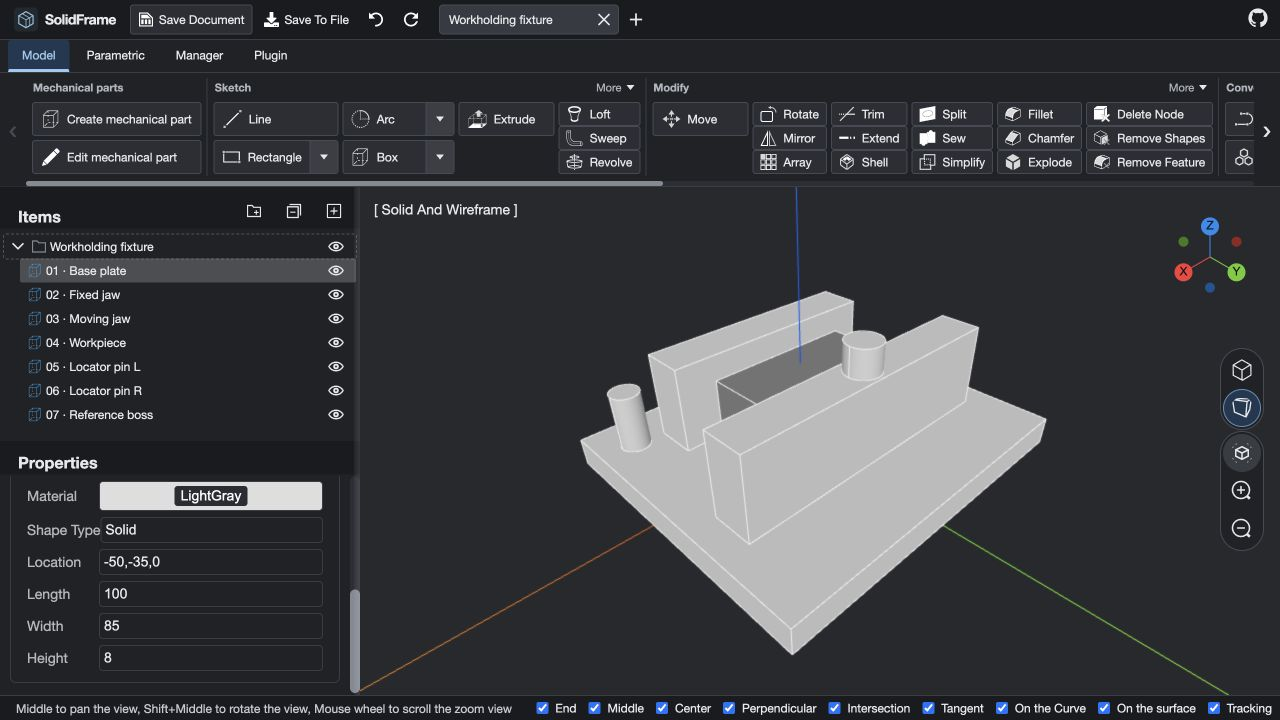
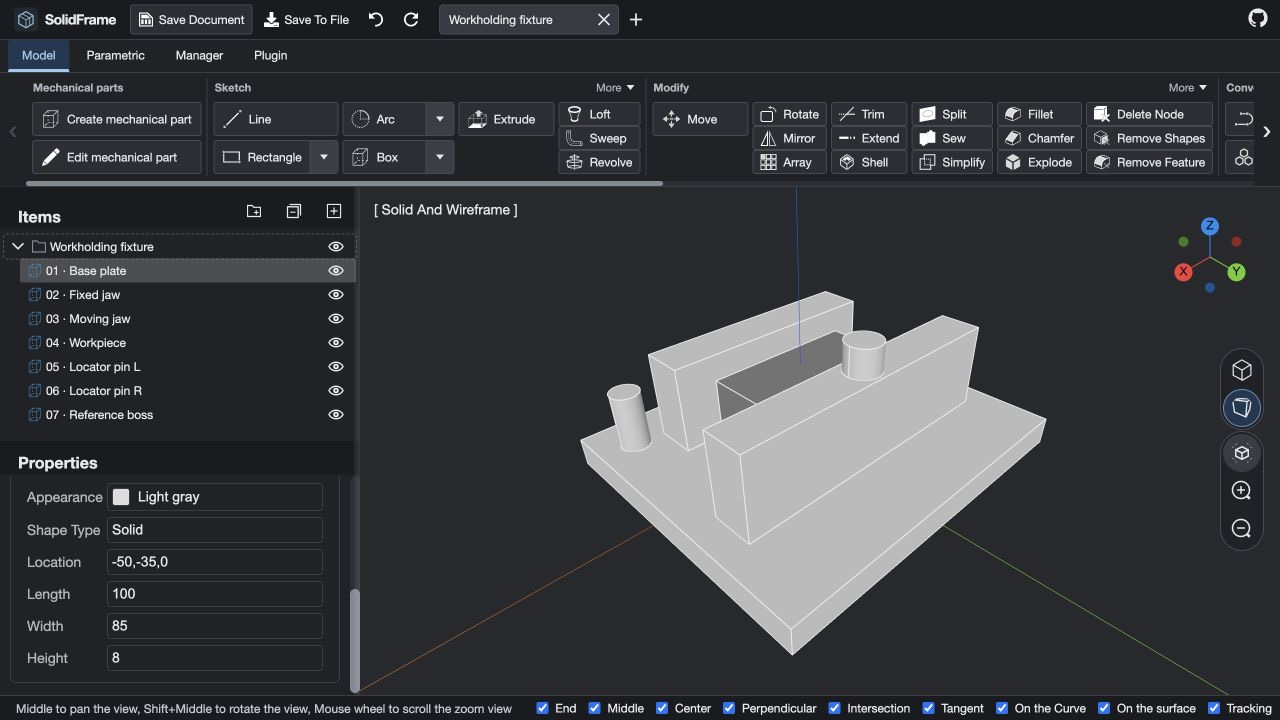
🐛 fix(ui): clarify appearance controls and refresh fixture preview

Changed region(s): [[0.0, 0.6417, 0.25, 0.7944], [0.0625, 0.8556, 0.0938, 0.9167]]

diff --git a/packages/ui/test/materialProperty.bindings.test.ts b/packages/ui/test/materialProperty.bindings.test.ts
@@ -1,0 +1,46 @@
+// Part of the Chili3d Project, under the AGPL-3.0 License.
+// See LICENSE file in the project root for full license information.
+
+import { Material, ObservableCollection, type Property } from "@chili3d/core";
+import { createMockDocument } from "@chili3d/core/test-utils";
+import { expect, rs, test } from "@rstest/core";
+
+rs.mock("../src/property/propertyBase.module.css", () => ({ panel: "panel" }));
+rs.mock("../src/property/materialProperty.module.css", () => ({
+    material: "material",
+    materialSwatch: "material-swatch",
+    materialLabel: "material-label",
+}));
+
+import { MaterialProperty } from "../src/property/materialProperty";
+
+test("appearance name and swatch stay current while editing the assigned appearance", () => {
+    const materials = new ObservableCollection<Material>();
+    const doc = createMockDocument({ modelManager: { materials } });
+    const material = new Material({ document: doc, name: "Light gray", color: 0xdedede });
+    materials.push(material);
+    const property = new MaterialProperty(doc, [{ materialId: material.id }], {
+        name: "materialId",
+        type: "materialId",
+        display: "common.material",
+    } as Property);
+    document.body.append(property);
+    const button = property.querySelector("button");
+    const label = property.querySelector(".material-label");
+    const swatch = property.querySelector<HTMLElement>(".material-swatch");
+    expect(button).not.toBeNull();
+    expect(label).not.toBeNull();
+    expect(swatch).not.toBeNull();
+    expect(label?.textContent).toBe("Light gray");
+    expect(button?.title).toBe("Light gray");
+    expect(swatch?.style.backgroundColor).toBe("#dedede");
+
+    material.name = "Blue finish";
+    material.color = 0x2255aa;
+
+    expect(label?.textContent).toBe("Blue finish");
+    expect(button?.title).toBe("Blue finish");
+    expect(swatch?.style.backgroundColor).toBe("#2255aa");
+    expect(button?.style.backgroundColor).toBe("");
+    property.remove();
+});

diff --git a/packages/ui/src/property/materialProperty.ts b/packages/ui/src/property/materialProperty.ts
@@ -43,20 +43,24 @@ export class MaterialProperty extends PropertyBase {
             ),
             button(
                 {
-                    style: {
-                        backgroundColor: new Binding(material, "color", new ColorConverter()),
-                        backgroundImage: new PathBinding(material, "map.image", new UrlStringConverter()),
-                        backgroundBlendMode: "multiply",
-                        backgroundSize: "cover",
-                        cursor: "pointer",
-                    },
+                    title: new Binding(material, "name"),
+                    type: "button",
                     onclick: (e) => {
                         PubSub.default.pub("editMaterial", document, material, (material) => {
                             this.setMaterial(e, material, index);
                         });
                     },
                 },
-                span({ className: style.materialLabel, textContent: material.name }),
+                span({
+                    className: style.materialSwatch,
+                    style: {
+                        backgroundColor: new Binding(material, "color", new ColorConverter()),
+                        backgroundImage: new PathBinding(material, "map.image", new UrlStringConverter()),
+                        backgroundBlendMode: "multiply",
+                        backgroundSize: "cover",
+                    },
+                }),
+                span({ className: style.materialLabel, textContent: new Binding(material, "name") }),
             ),
         );
     }

diff --git a/packages/ui/src/property/materialProperty.module.css b/packages/ui/src/property/materialProperty.module.css
@@ -7,13 +7,17 @@
     div {
         font-size: 14px;
         opacity: 0.75;
-        color: var(--color);
-        min-width: 72px;
+        color: var(--foreground-color);
+        min-width: 80px;
         flex: 0 1 auto;
     }
 
     button {
+        display: flex;
         flex: 1 1 auto;
+        min-width: 0;
+        align-items: center;
+        gap: 8px;
         font-size: 1rem;
         padding: 4px;
         outline: none;
@@ -22,21 +26,37 @@
         border: 1px solid var(--border-color);
         border-radius: 4px;
         margin: 0px;
+        cursor: pointer;
 
         &:hover {
             background-color: var(--hover-background-color);
         }
 
+        &:focus-visible {
+            outline: 2px solid var(--primary-color);
+            outline-offset: 2px;
+        }
+
+        .materialSwatch {
+            flex: 0 0 18px;
+            width: 18px;
+            height: 18px;
+            box-sizing: border-box;
+            border: 1px solid var(--border-color);
+            border-radius: 3px;
+        }
+
         .materialLabel {
             display: inline-block;
+            flex: 1;
+            min-width: 0;
             max-width: 100%;
             overflow: hidden;
             text-overflow: ellipsis;
+            white-space: nowrap;
             vertical-align: middle;
-            padding: 2px 6px;
-            border-radius: 3px;
-            background: rgb(17 21 28 / 88%);
-            color: #fff;
+            color: var(--foreground-color);
+            text-align: left;
         }
     }
 }

diff --git a/packages/app/test/application.test.ts b/packages/app/test/application.test.ts
@@ -251,13 +251,13 @@ describe("Application", () => {
             expect(sharedApp.documents.has(doc)).toBe(true);
         });
 
-        test("should add default materials (LightGray, DeepGray)", async () => {
+        test("should add default appearances (Light gray, Dark gray)", async () => {
             const doc = await sharedApp.newDocument("TestDoc3");
             const materialNames = (doc.modelManager.materials as unknown as { name: string }[]).map(
                 (m) => m.name,
             );
-            expect(materialNames).toContain("LightGray");
-            expect(materialNames).toContain("DeepGray");
+            expect(materialNames).toContain("Light gray");
+            expect(materialNames).toContain("Dark gray");
         });
 
         test("should set activeView to the created view", async () => {

diff --git a/packages/ui/src/property/material/materialEditor.ts b/packages/ui/src/property/material/materialEditor.ts
@@ -72,7 +72,7 @@ export class MaterialEditor extends HTMLElement {
     private material(material: Material) {
         return span({
             className: new Binding(this.dataContent, "editingMaterial", new ActiveStyleConverter(material)),
-            title: material.name,
+            title: new Binding(material, "name"),
             style: {
                 backgroundColor: new Binding(material, "color", this.colorConverter),
                 backgroundImage: new PathBinding(material, "map.image", new UrlStringConverter()),
@@ -112,6 +112,7 @@ export class MaterialEditor extends HTMLElement {
     }
 
     disconnectedCallback() {
+        this.dataContent.removePropertyChanged(this._onEditingMaterialChanged);
         PubSub.default.remove("showProperties", this._handleShowProperty);
     }
 

diff --git a/packages/ui/src/property/material/materialDataContent.ts b/packages/ui/src/property/material/materialDataContent.ts
@@ -1,7 +1,7 @@
 // Part of the Chili3d Project, under the AGPL-3.0 License.
 // See LICENSE file in the project root for full license information.
 
-import { type IDocument, Material, Observable } from "@chili3d/core";
+import { I18n, type IDocument, Material, Observable } from "@chili3d/core";
 
 let count = 1;
 
@@ -34,7 +34,11 @@ export class MaterialDataContent extends Observable {
 
     addMaterial() {
         this.document.modelManager.materials.push(
-            new Material({ document: this.document, name: `Material ${count++}`, color: 0xdddddd }),
+            new Material({
+                document: this.document,
+                name: `${I18n.translate("common.material")} ${count++}`,
+                color: 0xdddddd,
+            }),
         );
     }
 

diff --git a/packages/app/src/application.ts b/packages/app/src/application.ts
@@ -206,8 +206,8 @@ export class Application extends Observable implements IApplication {
 
     async newDocument(name: string): Promise<IDocument> {
         const document = new Document(this, name);
-        const lightGray = new Material({ document, name: "LightGray", color: 0xdedede });
-        const deepGray = new Material({ document, name: "DeepGray", color: 0x898989 });
+        const lightGray = new Material({ document, name: "Light gray", color: 0xdedede });
+        const deepGray = new Material({ document, name: "Dark gray", color: 0x898989 });
         document.modelManager.materials.push(lightGray, deepGray);
         await this.createActiveView(document);
         return document;

diff --git a/packages/i18n/src/ru.ts b/packages/i18n/src/ru.ts
@@ -190,7 +190,7 @@ export default {
         "common.length": "Длина",
         "common.expression": "Выражение",
         "common.location": "Положение",
-        "common.material": "Материал",
+        "common.material": "Внешний вид",
         "common.matrix": "Матрица",
         "common.more": "Больше",
         "common.name": "Имя",

diff --git a/packages/i18n/src/en.ts b/packages/i18n/src/en.ts
@@ -233,7 +233,7 @@ export default {
         "common.length": "Length",
         "common.expression": "Expression",
         "common.location": "Location",
-        "common.material": "Material",
+        "common.material": "Appearance",
         "common.matrix": "Matrix",
         "common.more": "More",
         "common.name": "Name",

diff --git a/packages/i18n/src/zh-cn.ts b/packages/i18n/src/zh-cn.ts
@@ -230,7 +230,7 @@ export default {
         "common.length": "长度",
         "common.expression": "表达式",
         "common.location": "位置",
-        "common.material": "材质",
+        "common.material": "外观",
         "common.matrix": "矩阵",
         "common.more": "更多",
         "common.name": "名称",

diff --git a/packages/i18n/src/pt-br.ts b/packages/i18n/src/pt-br.ts
@@ -9,6 +9,7 @@ export default {
     language: "pt-BR",
     translation: {
         ...en.translation,
+        "common.material": "Aparência",
         "prompt.touchNavigation": "2 dedos: deslocar · pinça: zoom · 3 dedos: girar",
         "common.closeDocument": "Fechar documento",
         "ai.apiKey": "Chave de API",

diff --git a/packages/ui/src/property/common.module.css b/packages/ui/src/property/common.module.css
@@ -9,6 +9,6 @@
     font-size: 14px;
     opacity: 0.75;
     color: var(--foreground-color);
-    min-width: 72px;
+    min-width: 80px;
     flex: 0 1 auto;
 }
